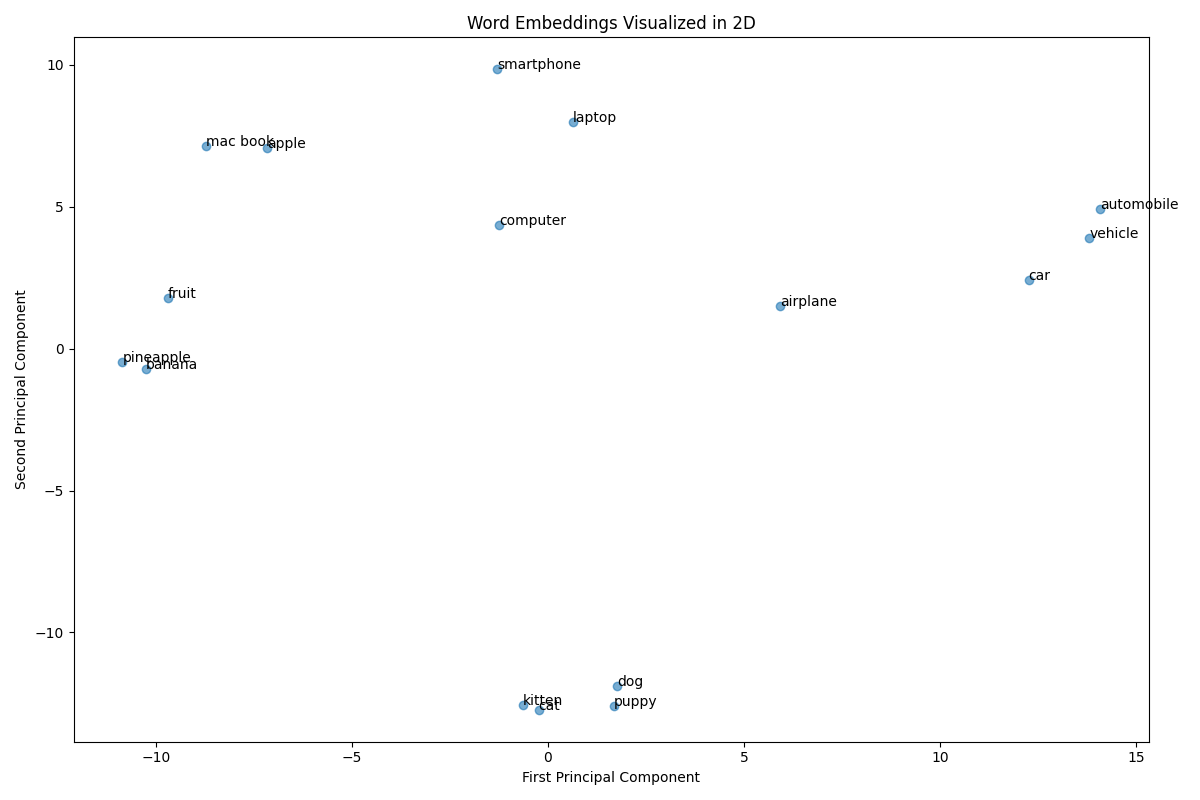
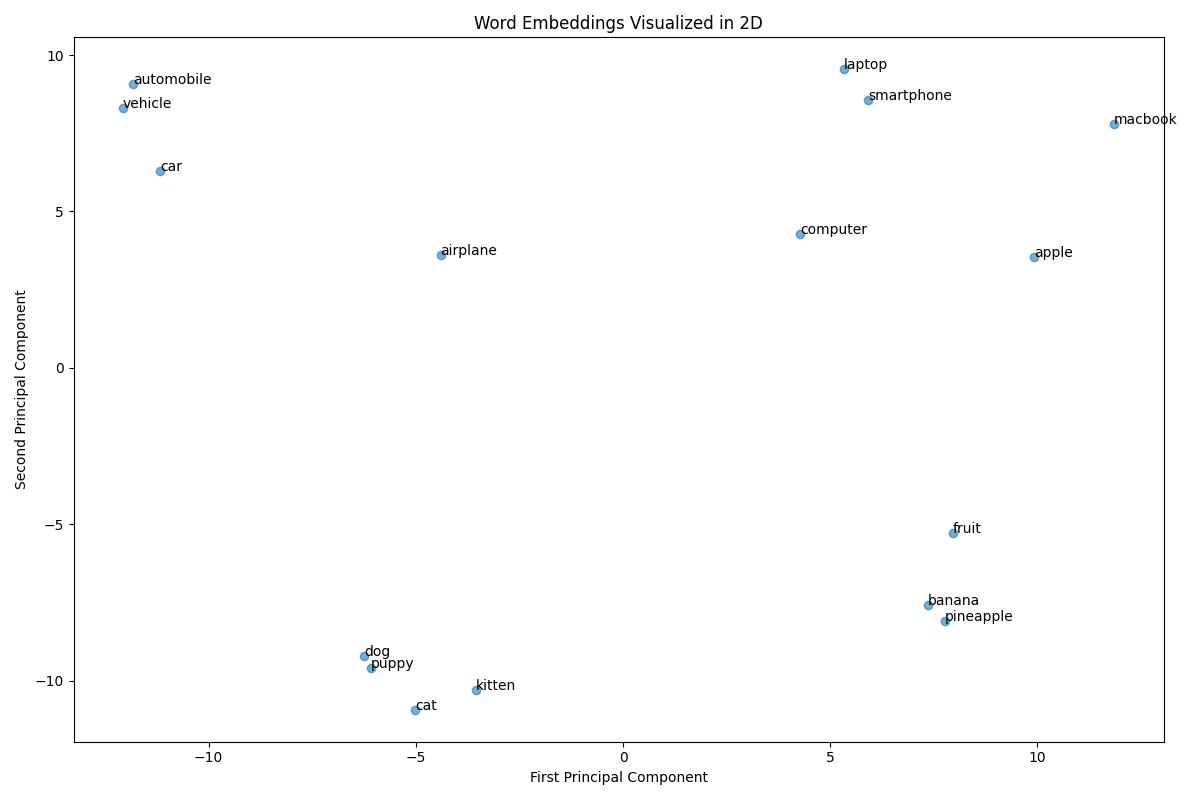
mongodb record validator

diff --git a/4-mongodb-record-validator.py b/4-mongodb-record-validator.py
@@ -1,0 +1,72 @@
+#!/usr/bin/env python3
+
+from pymongo import MongoClient
+from prettytable import PrettyTable
+import numpy as np
+from config import Config
+
+def format_embedding(embedding, num_values=64):
+    """Format embedding vector to show first num_values with better precision"""
+    if isinstance(embedding, (list, np.ndarray)):
+        values = [f"{x:.4f}" for x in embedding[:num_values]]
+        return f"[{', '.join(values)}" + f"... ({len(embedding)} total)]"
+    return str(embedding)
+
+def format_value(value, max_length=512):
+    """Format values for display, truncating if necessary"""
+    if isinstance(value, (list, np.ndarray)):
+        return format_embedding(value)
+
+    str_value = str(value)
+    if len(str_value) > max_length:
+        return str_value[:max_length] + "..."
+    return str_value
+
+def explore_mongodb():
+    """
+    Display MongoDB records with specific columns and formatting
+    """
+    try:
+        client = MongoClient(Config.MONGODB_URI)
+        print("\n✅ Successfully connected to MongoDB\n")
+    except Exception as e:
+        print(f"❌ Error connecting to MongoDB: {e}")
+        return
+
+    # Use configured database and collection
+    db = client[Config.DATABASE_NAME]
+    collection = db[Config.COLLECTION_NAME]
+
+    # Get three random samples
+    samples = list(collection.aggregate([{"$sample": {"size": 3}}]))
+
+    if not samples:
+        print("No documents found in collection")
+        return
+
+    # Create main table for the records
+    main_table = PrettyTable()
+    main_table.field_names = ["Field", "Value"]
+    main_table.align = 'l'  # Left align text
+
+    # Set individual column widths
+    main_table.max_width["Field"] = 15
+    main_table.max_width["Value"] = 130
+
+    # Display each sample
+    for i, sample in enumerate(samples, 1):
+        # print(f"\n🎲 Sample Record #{i}:")
+        main_table.clear_rows()
+
+        # Add rows for specified fields
+        fields = ['_id', 'url', 'title', 'content', 'embedding']
+        for field in fields:
+            if field in sample:
+                value = format_value(sample[field])
+                main_table.add_row([field, value])
+
+        print(main_table)
+
+if __name__ == "__main__":
+    explore_mongodb()
+

diff --git a/embeddings/4-model-produces-same-dimensions-for-similar-concepts.py b/embeddings/4-model-produces-same-dimensions-for-similar-concepts.py
@@ -15,7 +15,7 @@ model = SentenceTransformer('sentence-transformers/all-MiniLM-L6-v2')
 # Enhanced input texts with related concepts
 texts = [
     "cat",      "kitten",     "dog",        "puppy",     # Animals
-    "computer", "laptop",     "smartphone", "mac book",  # Technology
+    "computer", "laptop",     "smartphone", "macbook",   # Technology
     "apple",    "banana",     "fruit",      "pineapple", # Food
     "car",      "automobile", "vehicle",    "airplane",  # Transportation
 ]
@@ -82,7 +82,7 @@ print("-" * 50)
 concept_groups = [
     ("cat",      "kitten"),
     ("dog",      "puppy"),
-    ("computer", "laptop",     "mac book"),
+    ("computer", "laptop",     "macbook"),
     ("car",      "automobile", "vehicle"),
     ("apple",    "banana",     "fruit")
 ]
